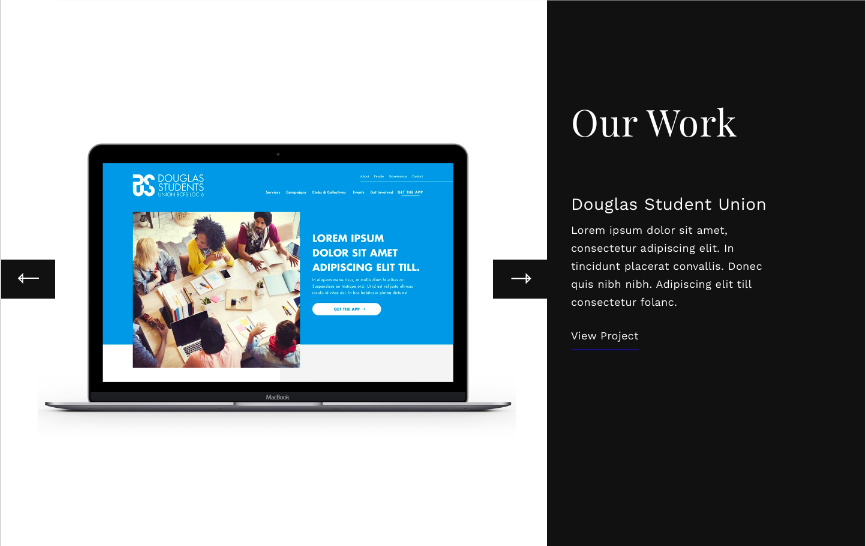
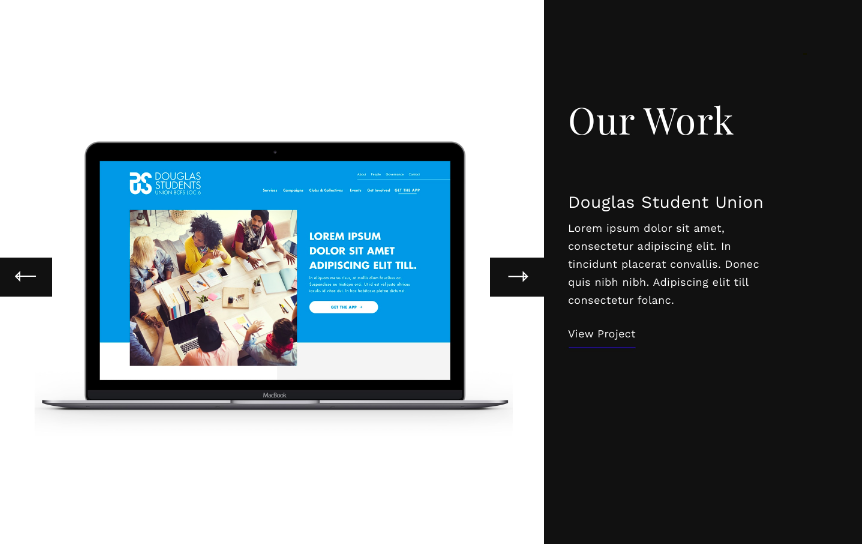
Add assets

diff --git a/build/css/style.min.css b/build/css/style.min.css
@@ -17,4 +17,4 @@ Underscores is distributed under the terms of the GNU GPL v2 or later.
 
 Normalizing styles have been helped along thanks to the fine work of
 Nicolas Gallagher and Jonathan Neal http://necolas.github.com/normalize.css/
-*/html{font-family:sans-serif;-webkit-text-size-adjust:100%;-ms-text-size-adjust:100%}body{margin:0}article,aside,details,figcaption,figure,footer,header,main,menu,nav,section,summary{display:block}audio,canvas,progress,video{display:inline-block;vertical-align:baseline}audio:not([controls]){display:none;height:0}[hidden],template{display:none}a{background-color:transparent}abbr[title]{border-bottom:1px dotted}b,strong{font-weight:700}dfn{font-style:italic}h1{font-size:2em;margin:.67em 0}mark{background:#ff0;color:#000}small{font-size:80%}sub,sup{font-size:75%;line-height:0;position:relative;vertical-align:baseline}sup{top:-.5em}sub{bottom:-.25em}img{border:0}svg:not(:root){overflow:hidden}figure{margin:1em 40px}hr{box-sizing:content-box;height:0}code,kbd,pre,samp{font-family:monospace,monospace;font-size:1em}button,input,optgroup,select,textarea{color:inherit;font:inherit;margin:0}button{overflow:visible}button,select{text-transform:none}button,html input[type=button],input[type=reset],input[type=submit]{-webkit-appearance:button;cursor:pointer}button[disabled],html input[disabled]{cursor:default}button::-moz-focus-inner,input::-moz-focus-inner{border:0;padding:0}input{line-height:normal}input[type=checkbox],input[type=radio]{box-sizing:border-box;padding:0}input[type=number]::-webkit-inner-spin-button,input[type=number]::-webkit-outer-spin-button{height:auto}input[type=search]{-webkit-appearance:textfield;box-sizing:content-box}input[type=search]::-webkit-search-cancel-button,input[type=search]::-webkit-search-decoration{-webkit-appearance:none}fieldset{border:1px solid silver;margin:0 2px;padding:.35em .625em .75em}legend{border:0;padding:0}textarea{overflow:auto}optgroup{font-weight:700}table{border-collapse:collapse;border-spacing:0}td,th{padding:0}body,button,input,select,textarea{color:#404040;font-family:sans-serif;font-size:16px;font-size:1rem;line-height:1.5}h1,h2,h3,h4,h5,h6{clear:both}p{margin-bottom:1.5rem}cite,dfn,em,i{font-style:italic}blockquote{margin:0 1.5rem}address{margin:0 0 1.5rem}pre{background:#eee;font-family:Courier\ 10 Pitch,Courier,monospace;line-height:1.6;margin-bottom:1.6rem;max-width:100%;overflow:auto;padding:1.6rem}code,kbd,pre,tt,var{font-size:15px;font-size:.9375rem}code,kbd,tt,var{font-family:Monaco,Consolas,Andale Mono,DejaVu Sans Mono,monospace}abbr,acronym{border-bottom:1px dotted #666;cursor:help}ins,mark{background:#fff9c0;text-decoration:none}big{font-size:125%}html{box-sizing:border-box;font-size:16px;font-size:1rem}*,:after,:before{box-sizing:inherit}body{background:#fff}blockquote,q{quotes:"" ""}blockquote:after,blockquote:before,q:after,q:before{content:""}hr{background-color:#ccc;border:0;height:1px;margin-bottom:1.5rem}ol,ul{margin:0 0 1.5rem 3rem}ul{list-style:disc}ol{list-style:decimal}li>ol,li>ul{margin-bottom:0;margin-left:1.5rem}dt{font-weight:700}dd{margin:0 1.5rem 1.5rem}img{height:auto;max-width:100%}table{margin:0 0 1.5rem;width:100%}button,input[type=button],input[type=reset],input[type=submit]{border:1px solid;border-color:#ccc #ccc #bbb;border-radius:3px;background:#e6e6e6;box-shadow:inset 0 1px 0 hsla(0,0%,100%,.5),inset 0 15px 17px hsla(0,0%,100%,.5),inset 0 -5px 12px rgba(0,0,0,.05);color:rgba(0,0,0,.8);font-size:12px;font-size:.75rem;line-height:1;padding:.6rem 1rem .4rem;text-shadow:0 1px 0 hsla(0,0%,100%,.8)}button:hover,input[type=button]:hover,input[type=reset]:hover,input[type=submit]:hover{border-color:#ccc #bbb #aaa;box-shadow:inset 0 1px 0 hsla(0,0%,100%,.8),inset 0 15px 17px hsla(0,0%,100%,.8),inset 0 -5px 12px rgba(0,0,0,.02)}button:active,button:focus,input[type=button]:active,input[type=button]:focus,input[type=reset]:active,input[type=reset]:focus,input[type=submit]:active,input[type=submit]:focus{border-color:#aaa #bbb #bbb;box-shadow:inset 0 -1px 0 hsla(0,0%,100%,.5),inset 0 2px 5px rgba(0,0,0,.15)}input[type=email],input[type=password],input[type=search],input[type=text],input[type=url],textarea{color:#666;border:1px solid #ccc;border-radius:3px}input[type=email]:focus,input[type=password]:focus,input[type=search]:focus,input[type=text]:focus,input[type=url]:focus,textarea:focus{color:#111}input[type=email],input[type=password],input[type=search],input[type=text],input[type=url]{padding:3px}textarea{padding-left:3px;width:100%}a{color:#4169e1}a:visited{color:purple}a:active,a:focus,a:hover{color:#191970}a:focus{outline:thin dotted}a:active,a:hover{outline:0}.main-navigation{clear:both;display:block;float:left;width:100%}.main-navigation ul{display:none;list-style:none;margin:0;padding-left:0}.main-navigation ul ul{box-shadow:0 3px 3px rgba(0,0,0,.2);float:left;position:absolute;top:1.5rem;left:-999rem;z-index:1}.main-navigation ul ul ul{left:-999rem;top:0}.main-navigation ul ul li.focus>ul,.main-navigation ul ul li:hover>ul{left:100%}.main-navigation ul ul a{width:200px}.main-navigation ul li.focus>ul,.main-navigation ul li:hover>ul{left:auto}.main-navigation li{float:left;position:relative}.main-navigation a{display:block;text-decoration:none}.main-navigation.toggled ul,.menu-toggle{display:block}@media screen and (min-width:768px){.menu-toggle{display:none}.main-navigation ul{display:block}}.site-main .comment-navigation,.site-main .post-navigation,.site-main .posts-navigation{margin:0 0 1.5rem;overflow:hidden}.comment-navigation .nav-previous,.post-navigation .nav-previous,.posts-navigation .nav-previous{float:left;width:50%}.comment-navigation .nav-next,.post-navigation .nav-next,.posts-navigation .nav-next{float:right;text-align:right;width:50%}.screen-reader-text{clip:rect(1px,1px,1px,1px);position:absolute!important;height:1px;width:1px;overflow:hidden}.screen-reader-text:focus{background-color:#f1f1f1;border-radius:3px;box-shadow:0 0 2px 2px rgba(0,0,0,.6);clip:auto!important;color:#21759b;display:block;font-size:14px;font-size:.875rem;font-weight:700;height:auto;left:5px;line-height:normal;padding:15px 23px 14px;text-decoration:none;top:5px;width:auto;z-index:2}.alignleft{display:inline;float:left;margin-right:1.5rem}.alignright{display:inline;float:right;margin-left:1.5rem}.aligncenter{clear:both;display:block;margin-left:auto;margin-right:auto}.clearfix{clear:both;content:"";display:table}.widget{margin:0 0 1.5rem}.widget select{max-width:100%}.widget_search .search-submit{display:none}.sticky{display:block}.hentry{margin:0 0 1.5rem}.updated:not(.published){display:none}.group-blog .byline,.single .byline{display:inline}.entry-content,.entry-summary,.page-content{margin:1.5rem 0 0}.page-links{clear:both;margin:0 0 1.5rem}.archive .format-aside .entry-title,.blog .format-aside .entry-title{display:none}.comment-content a{word-wrap:break-word}.bypostauthor{display:block}.comment-content .wp-smiley,.entry-content .wp-smiley,.page-content .wp-smiley{border:none;margin-bottom:0;margin-top:0;padding:0}.wp-caption,embed,iframe,object{max-width:100%}.wp-caption{margin-bottom:1.5rem}.wp-caption img[class*=wp-image-]{display:block;margin-left:auto;margin-right:auto}.wp-caption .wp-caption-text{margin:.8075rem 0}.wp-caption-text{text-align:center}.gallery{margin-bottom:1.5rem}.gallery-item{display:inline-block;text-align:center;vertical-align:top;width:100%}.gallery-columns-2 .gallery-item{max-width:50%}.gallery-columns-3 .gallery-item{max-width:33.33%}.gallery-columns-4 .gallery-item{max-width:25%}.gallery-columns-5 .gallery-item{max-width:20%}.gallery-columns-6 .gallery-item{max-width:16.66%}.gallery-columns-7 .gallery-item{max-width:14.28%}.gallery-columns-8 .gallery-item{max-width:12.5%}.gallery-columns-9 .gallery-item{max-width:11.11%}.gallery-caption{display:block}.header-container{padding:5%;margin-bottom:20%}.header-container h1{font-family:Playfair Display,serif;font-size:72px;padding:10% 10% 0}.header-container p{max-width:80%;padding-left:10%}.second-container{display:-ms-flexbox;display:flex;-ms-flex-direction:row;flex-direction:row}.box1{background-color:#f7f7f7;width:40%;height:500px}.box1 p{color:#ff4500}.dots,.scroll{display:-ms-flexbox;display:flex;-ms-flex-direction:row;flex-direction:row}.scroll{transform:rotate(-90deg);-ms-flex-pack:center;justify-content:center;-ms-flex-align:center;align-items:center;font-family:monospace;color:blue;padding-left:90px}.scroll-blue-line{height:2px;width:150px;background-color:blue;margin-right:20px}.services-container{height:900px;background-color:#f7f7f7;padding:15%;padding-top:25%;-ms-flex-item-align:center;align-self:center}.find-out-container{display:-ms-flexbox;display:flex;-ms-flex-pack:end;justify-content:flex-end}.find-out-container .find-out-blurb{line-height:4}.find-out-container .find-out-blurb div{background-color:blue;height:5px;width:211px}.title-paragraph-container{display:-ms-flexbox;display:flex;-ms-flex-direction:row;flex-direction:row}.title-paragraph-container h2{font-family:Playfair Display,serif;font-weight:100;padding:20px;font-size:60px}.title-paragraph-container p{-ms-flex-item-align:center;align-self:center}.bullet-container{-ms-flex-direction:row;flex-direction:row;-ms-flex-pack:distribute;justify-content:space-around;font-family:Arial,Helvetica,sans-serif;line-height:3}.bullet-container,.bullet-point{display:-ms-flexbox;display:flex}.bullet-point{-ms-flex-align:center;align-items:center}.bullet-blue-line{height:5px;width:10px;background-color:blue;margin-right:10px}
+*/html{font-family:sans-serif;-webkit-text-size-adjust:100%;-ms-text-size-adjust:100%}body{margin:0}article,aside,details,figcaption,figure,footer,header,main,menu,nav,section,summary{display:block}audio,canvas,progress,video{display:inline-block;vertical-align:baseline}audio:not([controls]){display:none;height:0}[hidden],template{display:none}a{background-color:transparent}abbr[title]{border-bottom:1px dotted}b,strong{font-weight:700}dfn{font-style:italic}h1{font-size:2em;margin:.67em 0}mark{background:#ff0;color:#000}small{font-size:80%}sub,sup{font-size:75%;line-height:0;position:relative;vertical-align:baseline}sup{top:-.5em}sub{bottom:-.25em}img{border:0}svg:not(:root){overflow:hidden}figure{margin:1em 40px}hr{box-sizing:content-box;height:0}code,kbd,pre,samp{font-family:monospace,monospace;font-size:1em}button,input,optgroup,select,textarea{color:inherit;font:inherit;margin:0}button{overflow:visible}button,select{text-transform:none}button,html input[type=button],input[type=reset],input[type=submit]{-webkit-appearance:button;cursor:pointer}button[disabled],html input[disabled]{cursor:default}button::-moz-focus-inner,input::-moz-focus-inner{border:0;padding:0}input{line-height:normal}input[type=checkbox],input[type=radio]{box-sizing:border-box;padding:0}input[type=number]::-webkit-inner-spin-button,input[type=number]::-webkit-outer-spin-button{height:auto}input[type=search]{-webkit-appearance:textfield;box-sizing:content-box}input[type=search]::-webkit-search-cancel-button,input[type=search]::-webkit-search-decoration{-webkit-appearance:none}fieldset{border:1px solid silver;margin:0 2px;padding:.35em .625em .75em}legend{border:0;padding:0}textarea{overflow:auto}optgroup{font-weight:700}table{border-collapse:collapse;border-spacing:0}td,th{padding:0}body,button,input,select,textarea{color:#404040;font-family:sans-serif;font-size:16px;font-size:1rem;line-height:1.5}h1,h2,h3,h4,h5,h6{clear:both}p{margin-bottom:1.5rem}cite,dfn,em,i{font-style:italic}blockquote{margin:0 1.5rem}address{margin:0 0 1.5rem}pre{background:#eee;font-family:Courier\ 10 Pitch,Courier,monospace;line-height:1.6;margin-bottom:1.6rem;max-width:100%;overflow:auto;padding:1.6rem}code,kbd,pre,tt,var{font-size:15px;font-size:.9375rem}code,kbd,tt,var{font-family:Monaco,Consolas,Andale Mono,DejaVu Sans Mono,monospace}abbr,acronym{border-bottom:1px dotted #666;cursor:help}ins,mark{background:#fff9c0;text-decoration:none}big{font-size:125%}html{box-sizing:border-box;font-size:16px;font-size:1rem}*,:after,:before{box-sizing:inherit}body{background:#fff}blockquote,q{quotes:"" ""}blockquote:after,blockquote:before,q:after,q:before{content:""}hr{background-color:#ccc;border:0;height:1px;margin-bottom:1.5rem}ol,ul{margin:0 0 1.5rem 3rem}ul{list-style:disc}ol{list-style:decimal}li>ol,li>ul{margin-bottom:0;margin-left:1.5rem}dt{font-weight:700}dd{margin:0 1.5rem 1.5rem}img{height:auto;max-width:100%}table{margin:0 0 1.5rem;width:100%}button,input[type=button],input[type=reset],input[type=submit]{border:1px solid;border-color:#ccc #ccc #bbb;border-radius:3px;background:#e6e6e6;box-shadow:inset 0 1px 0 hsla(0,0%,100%,.5),inset 0 15px 17px hsla(0,0%,100%,.5),inset 0 -5px 12px rgba(0,0,0,.05);color:rgba(0,0,0,.8);font-size:12px;font-size:.75rem;line-height:1;padding:.6rem 1rem .4rem;text-shadow:0 1px 0 hsla(0,0%,100%,.8)}button:hover,input[type=button]:hover,input[type=reset]:hover,input[type=submit]:hover{border-color:#ccc #bbb #aaa;box-shadow:inset 0 1px 0 hsla(0,0%,100%,.8),inset 0 15px 17px hsla(0,0%,100%,.8),inset 0 -5px 12px rgba(0,0,0,.02)}button:active,button:focus,input[type=button]:active,input[type=button]:focus,input[type=reset]:active,input[type=reset]:focus,input[type=submit]:active,input[type=submit]:focus{border-color:#aaa #bbb #bbb;box-shadow:inset 0 -1px 0 hsla(0,0%,100%,.5),inset 0 2px 5px rgba(0,0,0,.15)}input[type=email],input[type=password],input[type=search],input[type=text],input[type=url],textarea{color:#666;border:1px solid #ccc;border-radius:3px}input[type=email]:focus,input[type=password]:focus,input[type=search]:focus,input[type=text]:focus,input[type=url]:focus,textarea:focus{color:#111}input[type=email],input[type=password],input[type=search],input[type=text],input[type=url]{padding:3px}textarea{padding-left:3px;width:100%}a{color:#4169e1}a:visited{color:purple}a:active,a:focus,a:hover{color:#191970}a:focus{outline:thin dotted}a:active,a:hover{outline:0}.main-navigation{clear:both;display:block;float:left;width:100%}.main-navigation ul{display:none;list-style:none;margin:0;padding-left:0}.main-navigation ul ul{box-shadow:0 3px 3px rgba(0,0,0,.2);float:left;position:absolute;top:1.5rem;left:-999rem;z-index:1}.main-navigation ul ul ul{left:-999rem;top:0}.main-navigation ul ul li.focus>ul,.main-navigation ul ul li:hover>ul{left:100%}.main-navigation ul ul a{width:200px}.main-navigation ul li.focus>ul,.main-navigation ul li:hover>ul{left:auto}.main-navigation li{float:left;position:relative}.main-navigation a{display:block;text-decoration:none}.main-navigation.toggled ul,.menu-toggle{display:block}@media screen and (min-width:768px){.menu-toggle{display:none}.main-navigation ul{display:block}}.site-main .comment-navigation,.site-main .post-navigation,.site-main .posts-navigation{margin:0 0 1.5rem;overflow:hidden}.comment-navigation .nav-previous,.post-navigation .nav-previous,.posts-navigation .nav-previous{float:left;width:50%}.comment-navigation .nav-next,.post-navigation .nav-next,.posts-navigation .nav-next{float:right;text-align:right;width:50%}.screen-reader-text{clip:rect(1px,1px,1px,1px);position:absolute!important;height:1px;width:1px;overflow:hidden}.screen-reader-text:focus{background-color:#f1f1f1;border-radius:3px;box-shadow:0 0 2px 2px rgba(0,0,0,.6);clip:auto!important;color:#21759b;display:block;font-size:14px;font-size:.875rem;font-weight:700;height:auto;left:5px;line-height:normal;padding:15px 23px 14px;text-decoration:none;top:5px;width:auto;z-index:2}.alignleft{display:inline;float:left;margin-right:1.5rem}.alignright{display:inline;float:right;margin-left:1.5rem}.aligncenter{clear:both;display:block;margin-left:auto;margin-right:auto}.clearfix{clear:both;content:"";display:table}.widget{margin:0 0 1.5rem}.widget select{max-width:100%}.widget_search .search-submit{display:none}.sticky{display:block}.hentry{margin:0 0 1.5rem}.updated:not(.published){display:none}.group-blog .byline,.single .byline{display:inline}.entry-content,.entry-summary,.page-content{margin:1.5rem 0 0}.page-links{clear:both;margin:0 0 1.5rem}.archive .format-aside .entry-title,.blog .format-aside .entry-title{display:none}.comment-content a{word-wrap:break-word}.bypostauthor{display:block}.comment-content .wp-smiley,.entry-content .wp-smiley,.page-content .wp-smiley{border:none;margin-bottom:0;margin-top:0;padding:0}.wp-caption,embed,iframe,object{max-width:100%}.wp-caption{margin-bottom:1.5rem}.wp-caption img[class*=wp-image-]{display:block;margin-left:auto;margin-right:auto}.wp-caption .wp-caption-text{margin:.8075rem 0}.wp-caption-text{text-align:center}.gallery{margin-bottom:1.5rem}.gallery-item{display:inline-block;text-align:center;vertical-align:top;width:100%}.gallery-columns-2 .gallery-item{max-width:50%}.gallery-columns-3 .gallery-item{max-width:33.33%}.gallery-columns-4 .gallery-item{max-width:25%}.gallery-columns-5 .gallery-item{max-width:20%}.gallery-columns-6 .gallery-item{max-width:16.66%}.gallery-columns-7 .gallery-item{max-width:14.28%}.gallery-columns-8 .gallery-item{max-width:12.5%}.gallery-columns-9 .gallery-item{max-width:11.11%}.gallery-caption{display:block}.header-container{padding:5%;margin-bottom:20%}.header-container h1{font-family:Playfair Display,serif;font-size:72px;padding:10% 10% 0}.header-container p{max-width:80%;padding-left:10%}.second-container{display:-ms-flexbox;display:flex;-ms-flex-direction:row;flex-direction:row}.box1{background-color:#f7f7f7;width:40%;height:500px}.box1 p{color:#ff4500}.dots,.scroll{display:-ms-flexbox;display:flex;-ms-flex-direction:row;flex-direction:row}.scroll{transform:rotate(-90deg);-ms-flex-pack:center;justify-content:center;-ms-flex-align:center;align-items:center;font-family:monospace;color:blue;padding-left:90px}.scroll-blue-line{height:2px;width:150px;background-color:blue;margin-right:20px}.services-container{height:900px;background-color:#f7f7f7;padding:15%;padding-top:25%;-ms-flex-item-align:center;align-self:center}.find-out-container{display:-ms-flexbox;display:flex;-ms-flex-pack:end;justify-content:flex-end}.find-out-container .find-out-blurb{line-height:4}.find-out-container .find-out-blurb div{background-color:blue;height:5px;width:211px}.title-paragraph-container{display:-ms-flexbox;display:flex;-ms-flex-direction:row;flex-direction:row}.title-paragraph-container h2{font-family:Playfair Display,serif;font-weight:100;padding:20px;font-size:60px}.title-paragraph-container p{-ms-flex-item-align:center;align-self:center}.bullet-container{-ms-flex-direction:row;flex-direction:row;-ms-flex-pack:distribute;justify-content:space-around;font-family:Arial,Helvetica,sans-serif;line-height:3}.bullet-container,.bullet-point{display:-ms-flexbox;display:flex}.bullet-point{-ms-flex-align:center;align-items:center}.bullet-blue-line{height:5px;width:10px;background-color:blue;margin-right:10px}.photo-container img{width:100%}

diff --git a/style.css b/style.css
@@ -793,3 +793,6 @@ object {
   width: 10px;
   background-color: blue;
   margin-right: 10px; }
+
+.photo-container img {
+  width: 100%; }

diff --git a/sass/_page-templates.scss b/sass/_page-templates.scss
@@ -109,3 +109,9 @@
   background-color: blue;
   margin-right: 10px;
 }
+
+.photo-container {
+  img {
+    width: 100%;
+  }
+}

diff --git a/front-page.php b/front-page.php
@@ -56,7 +56,7 @@ get_header(); ?>
 
 				<section class="fourth-container">
 					<div class="photo-container">
-						<img alt="Info icon" src="<?php echo get_template_directory_uri() . '/assets/caravel-content-1.png'?>"
+						<img alt="demo-photo" src="<?php echo get_template_directory_uri() . '/assets/caravel-content-1.png'?>"
 						/>
 					</div>
 				</section>
